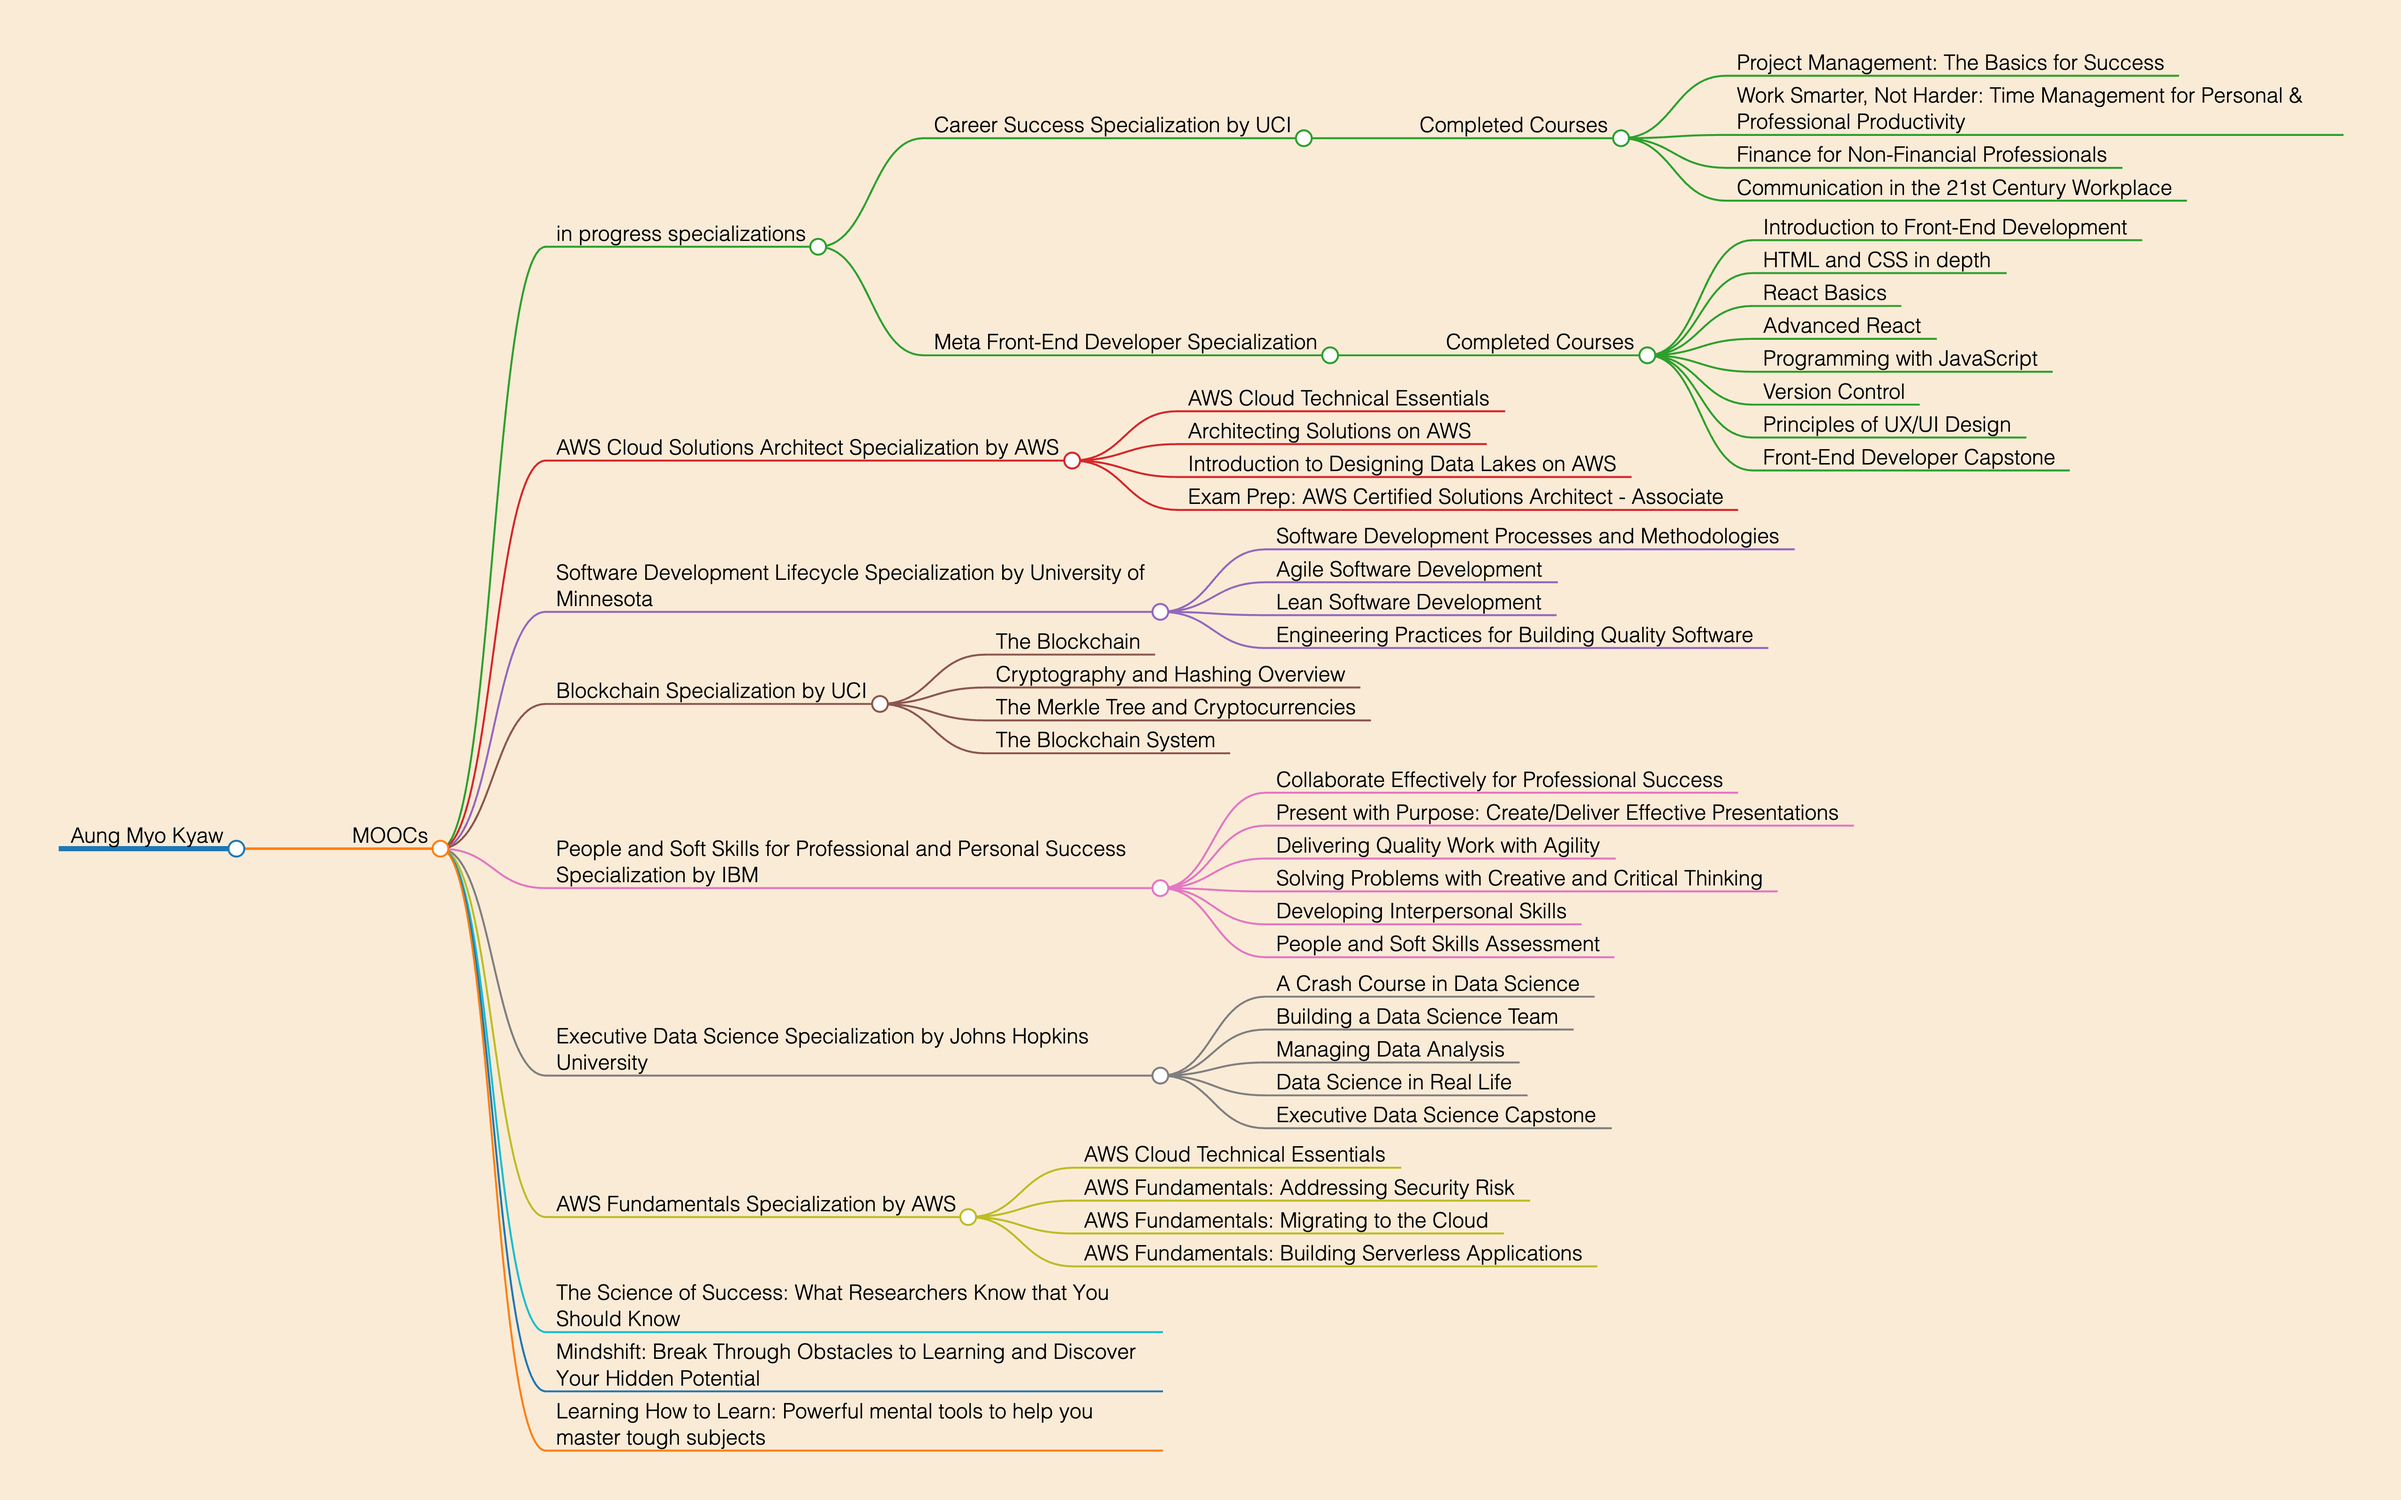
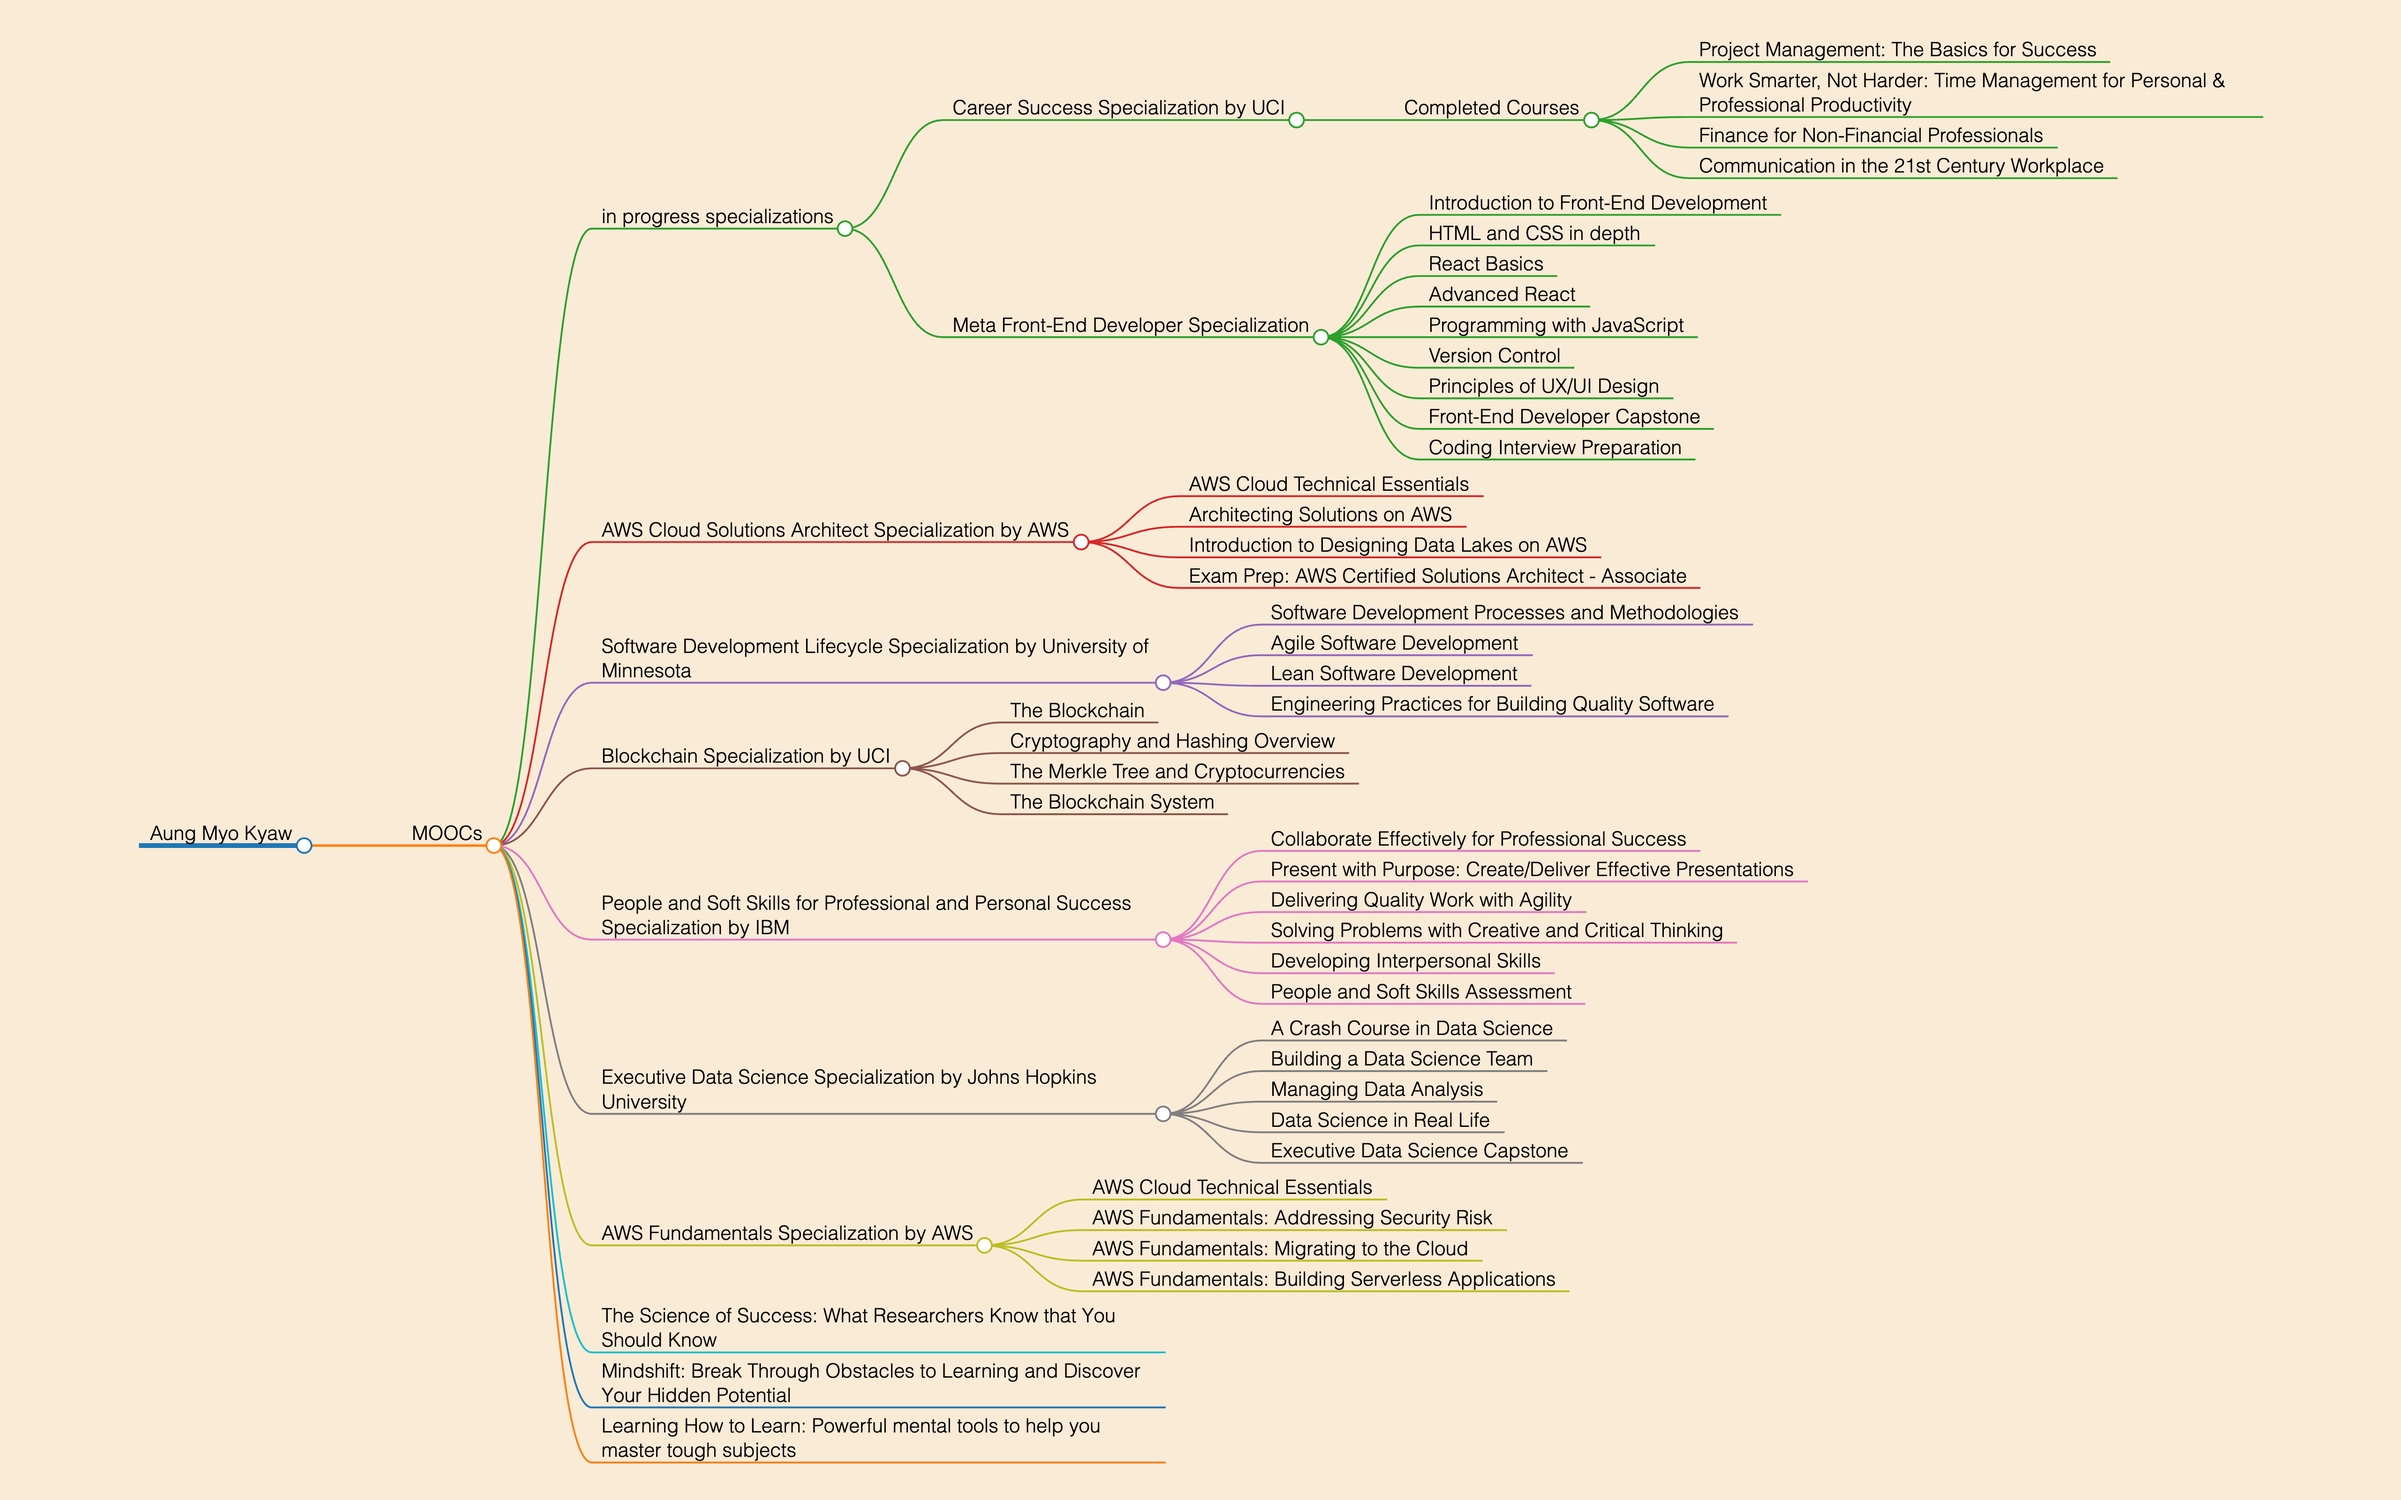
feat: complete meta front end

Changed region(s): [[0.0312, 0.0312, 0.9688, 0.9688], [0.2188, 0.125, 0.375, 0.1875]]

diff --git a/README.md b/README.md
@@ -32,9 +32,9 @@ markmap:
 - [Finance for Non-Financial Professionals](https://www.coursera.org/account/accomplishments/certificate/M2NCWTW8HLZC)
 - [Communication in the 21st Century Workplace](https://www.coursera.org/account/accomplishments/certificate/XGHP5MKFDYVA)
 
-#### [Meta Front-End Developer Specialization](#)
+---
 
-##### [Completed Courses](#)
+#### [Meta Front-End Developer Specialization](https://www.coursera.org/account/accomplishments/specialization/certificate/X5EVPVJSCPFH)
 
 - [Introduction to Front-End Development](https://www.coursera.org/account/accomplishments/certificate/3ZXBQMYRVE4J)
 - [HTML and CSS in depth](https://www.coursera.org/account/accomplishments/certificate/UZ8E4TBRTN7M)
@@ -44,8 +44,8 @@ markmap:
 - [Version Control](https://www.coursera.org/account/accomplishments/certificate/ZGLGS7UQPMVE)
 - [Principles of UX/UI Design](https://www.coursera.org/account/accomplishments/certificate/UUS2L4B8RPT3)
 - [Front-End Developer Capstone](https://www.coursera.org/account/accomplishments/certificate/GSPNXQK23TDB)
+- [Coding Interview Preparation](https://www.coursera.org/account/accomplishments/certificate/DHWSJ3JJKMEV)
 
----
 
 ### [AWS Cloud Solutions Architect Specialization by AWS](https://www.coursera.org/account/accomplishments/specialization/certificate/NGP2326FQRPB)
 
